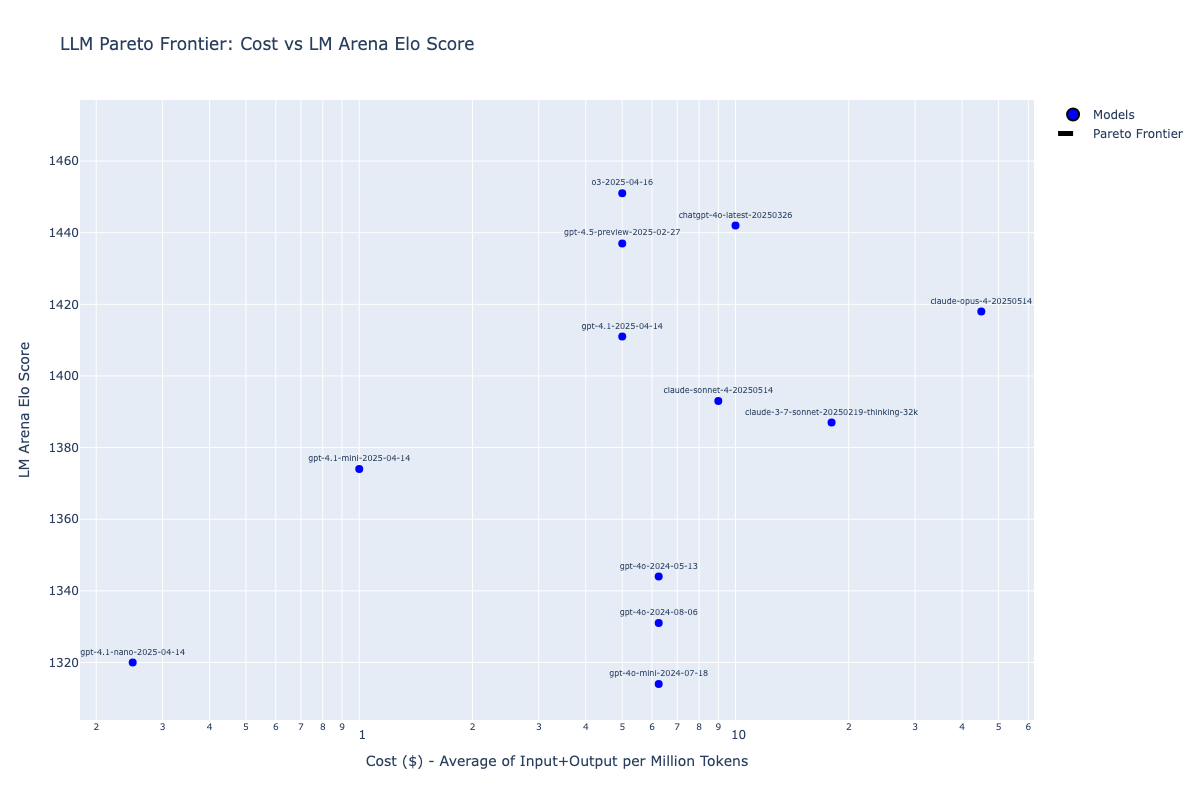
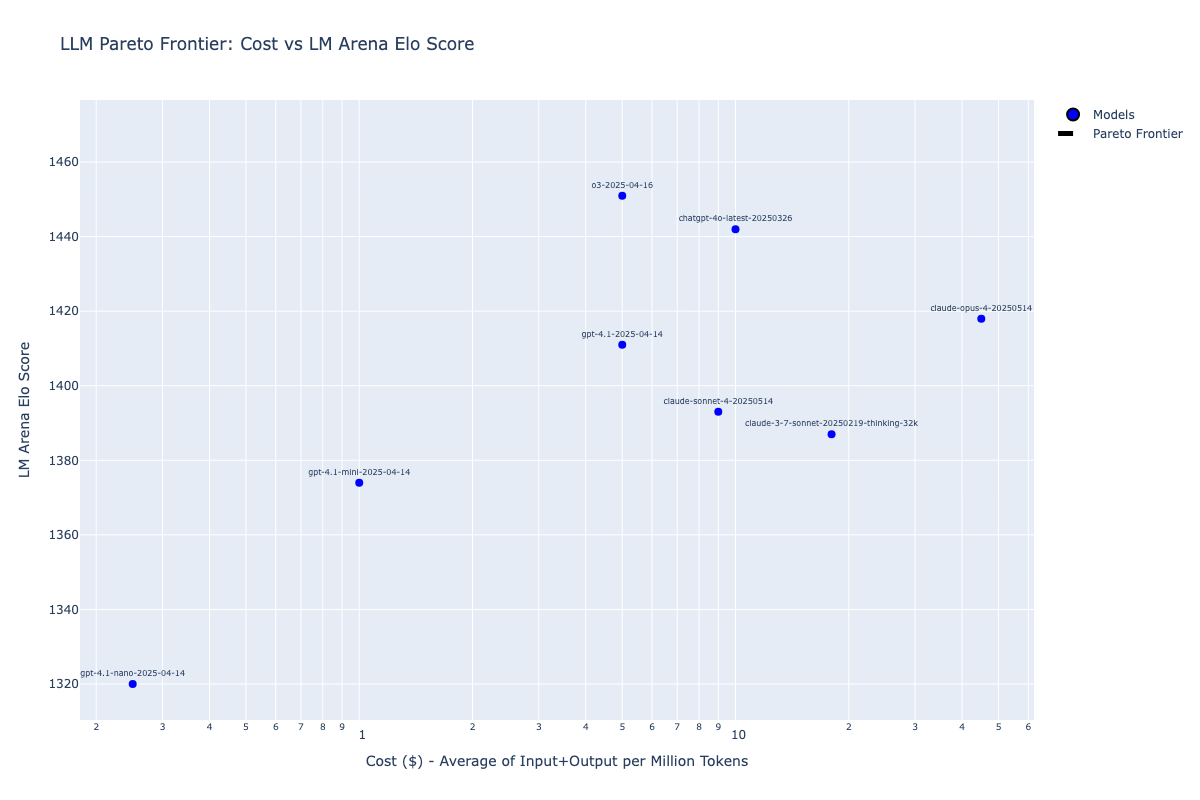
refactor: Remove gpt-4.5-preview and gpt-4o models from LM Arena analysis
- Remove gpt-4.5-preview-2025-02-27 as requested
- Remove all gpt-4o variants (gpt-4o-2024-05-13, gpt-4o-2024-08-06, gpt-4o-mini-2024-07-18)
- Keep all Gemini 2.5 models (pro, flash, flash-lite-thinking)
- Pareto frontier line is properly drawn

🤖 Generated with [Claude Code](https://claude.ai/code)

diff --git a/pareto-lmarena.py b/pareto-lmarena.py
@@ -20,14 +20,10 @@ model_data = [
     # OpenAI models
     ("o3-2025-04-16", "o3", 1451),
     ("chatgpt-4o-latest-20250326", "ChatGPT-4o", 1442),
-    ("gpt-4.5-preview-2025-02-27", "GPT-4.1", 1437),  # Using GPT-4.1 as closest match
     ("gpt-4.1-2025-04-14", "GPT-4.1", 1411),
     ("o4-mini-2025-04-16", "o4-mini", 1398),
     ("gpt-4.1-mini-2025-04-14", "GPT-4.1 Mini", 1374),
     ("gpt-4.1-nano-2025-04-14", "GPT-4.1 Nano", 1320),
-    ("gpt-4o-2024-05-13", "GPT-4o", 1344),
-    ("gpt-4o-2024-08-06", "GPT-4o", 1331),
-    ("gpt-4o-mini-2024-07-18", "GPT-4o", 1314),  # Using GPT-4o pricing for mini variant
     # Anthropic models
     ("claude-opus-4-20250514", "Claude 4 Opus", 1418),
     ("claude-sonnet-4-20250514", "Claude 4 Sonnet", 1393),
